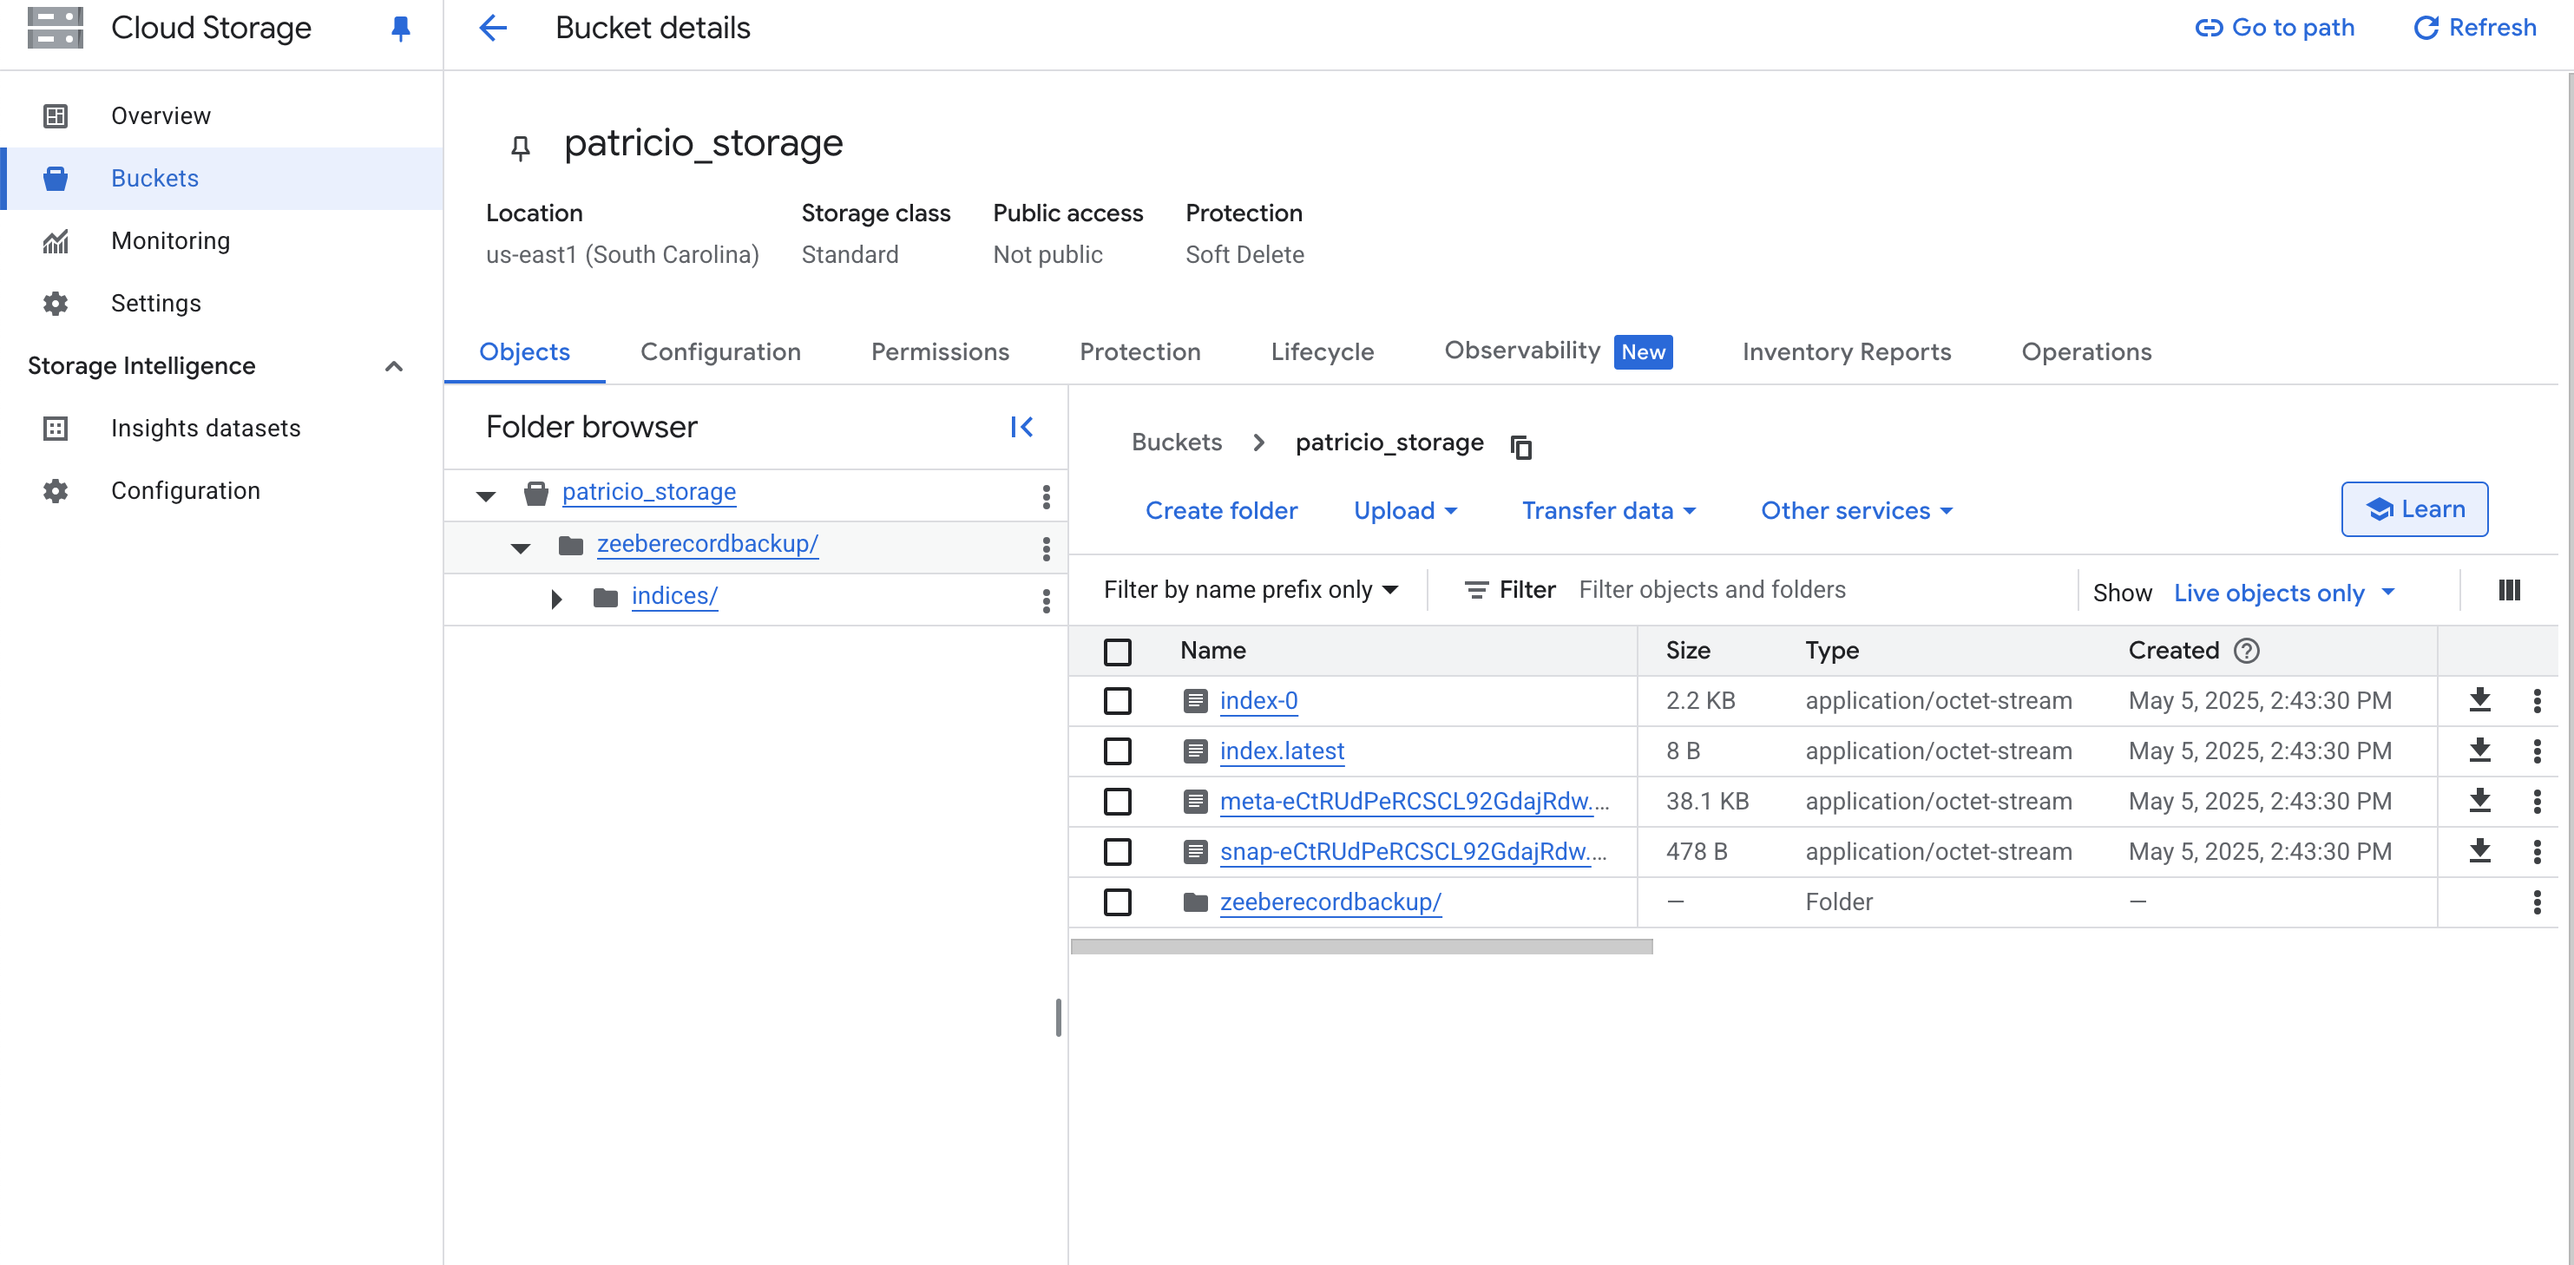
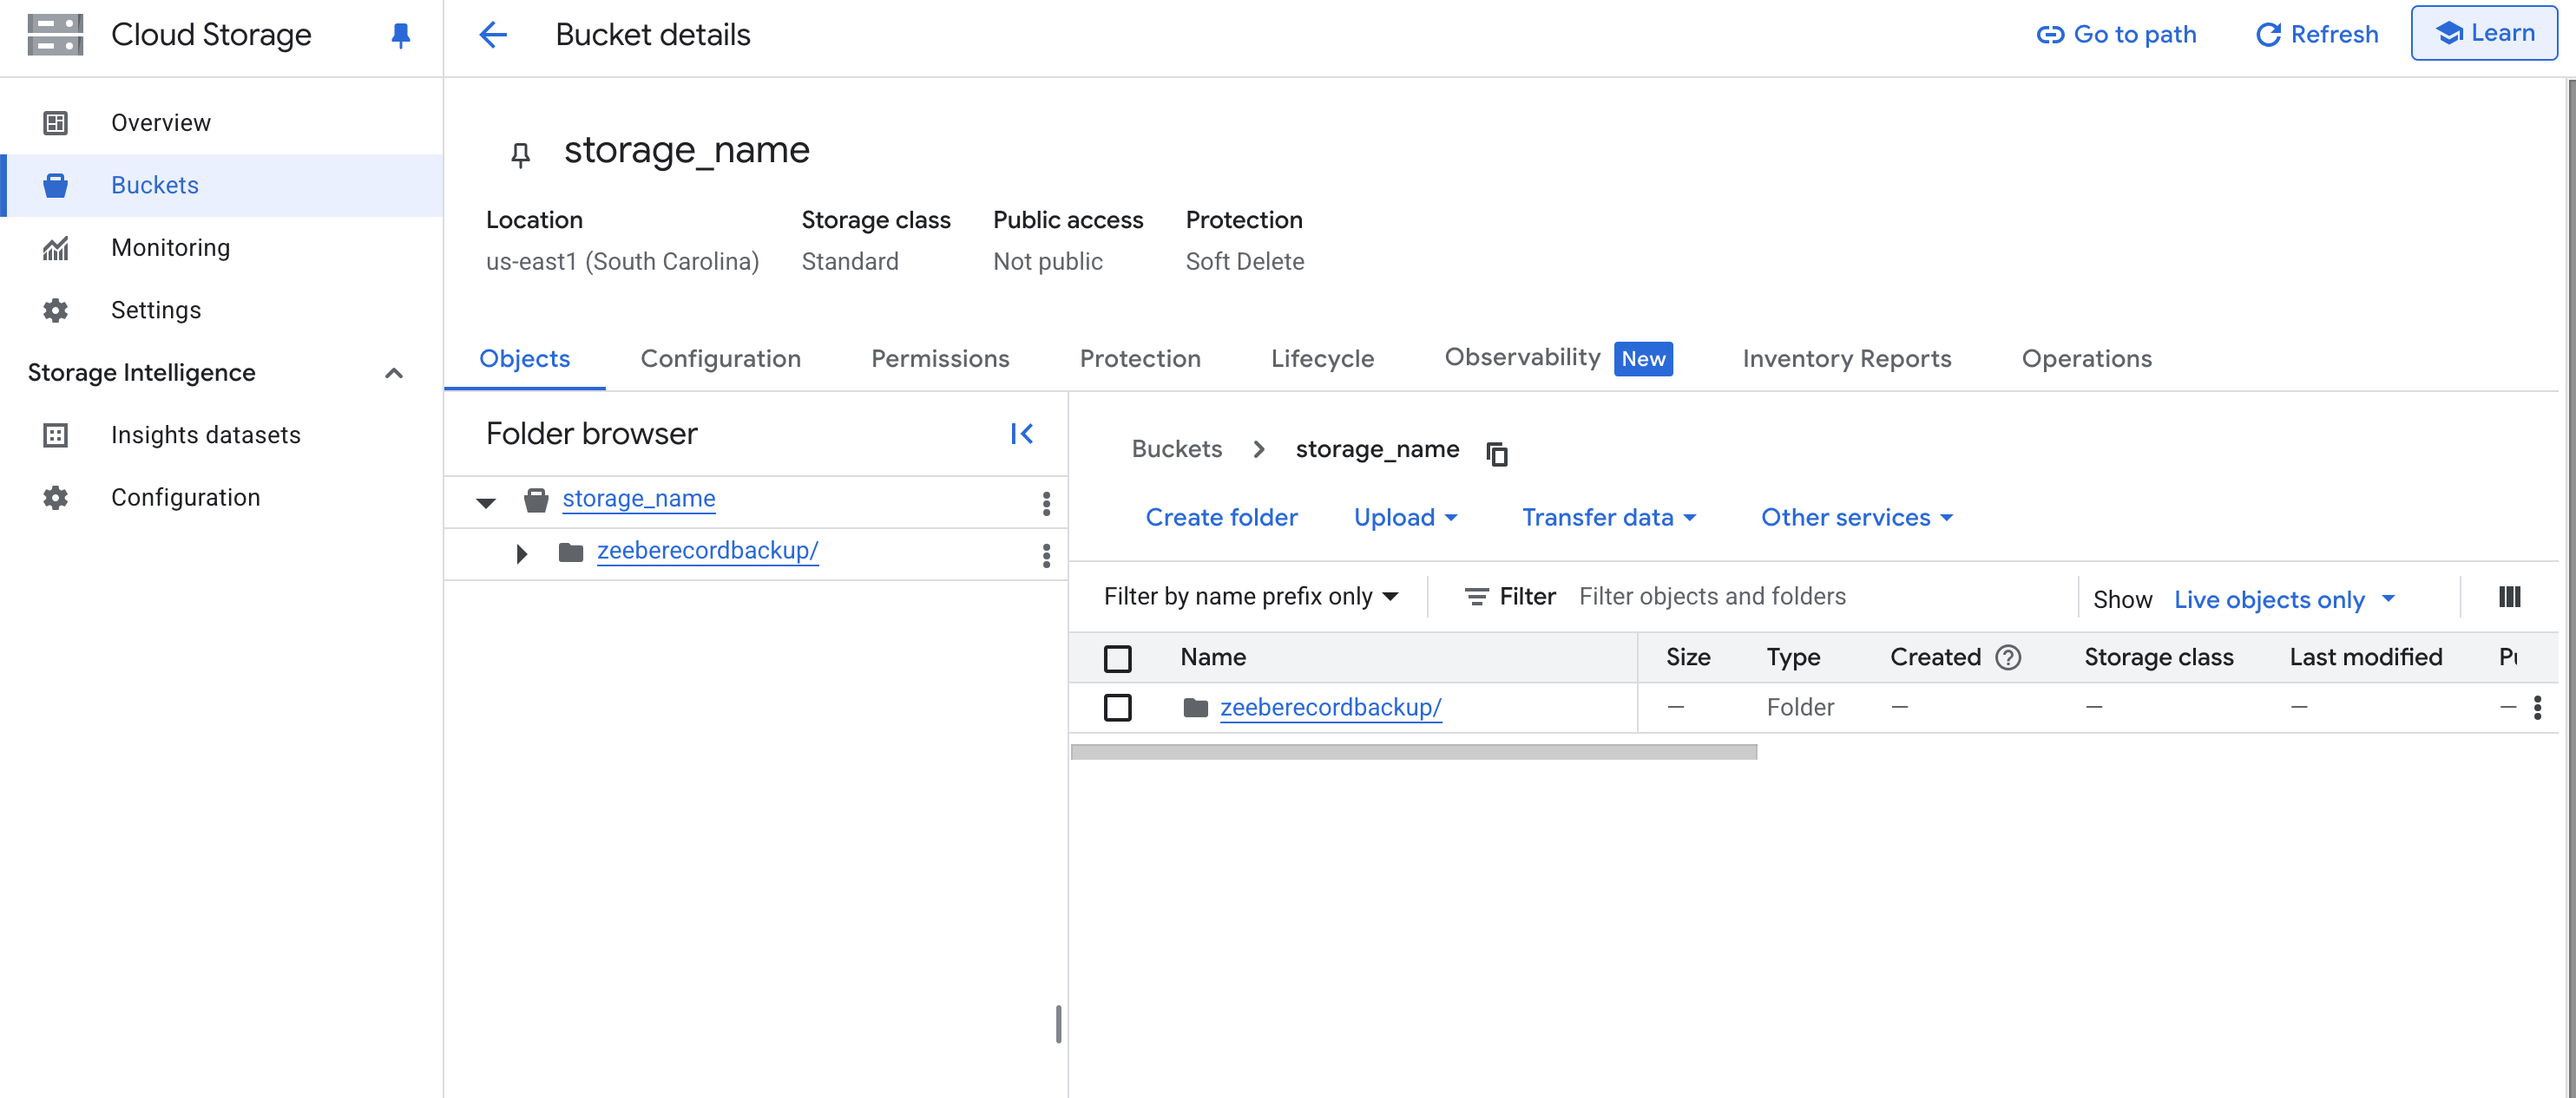
image update

diff --git a/doc/storage/GCP/keyandhelm.md b/doc/storage/GCP/keyandhelm.md
@@ -198,7 +198,7 @@ curl -X PUT "http://localhost:9200/_snapshot/zeeberecordrepository" \
   -d '{
     "type": "gcs",
     "settings": {
-      "bucket": "patricio_storage",
+      "bucket": "storage_name",
       "client": "default",
       "base_path": "zeeberecordbackup"
     }
@@ -213,7 +213,7 @@ curl -X PUT "http://localhost:9200/_snapshot/operaterepository" -H "Content-Type
 -d '{
   "type": "gcs",
   "settings": {
-    "bucket": "patricio_storage",
+    "bucket": "storage_name",
     "client": "default",
     "base_path": "operatebackup"
   }
@@ -227,7 +227,7 @@ curl -X PUT "http://localhost:9200/_snapshot/tasklistrepository" -H "Content-Typ
 -d '{
   "type": "gcs",
   "settings": {
-    "bucket": "patricio_storage",
+    "bucket": "storage_name",
     "client": "default",
     "base_path": "tasklistbackup"
   }
@@ -241,7 +241,7 @@ curl -X PUT "http://localhost:9200/_snapshot/optimizerepository" -H "Content-Typ
 -d '{
   "type": "gcs",
   "settings": {
-    "bucket": "patricio_storage",
+    "bucket": "storage_name",
     "client": "default",
     "base_path": "optimizebackup"
   }
